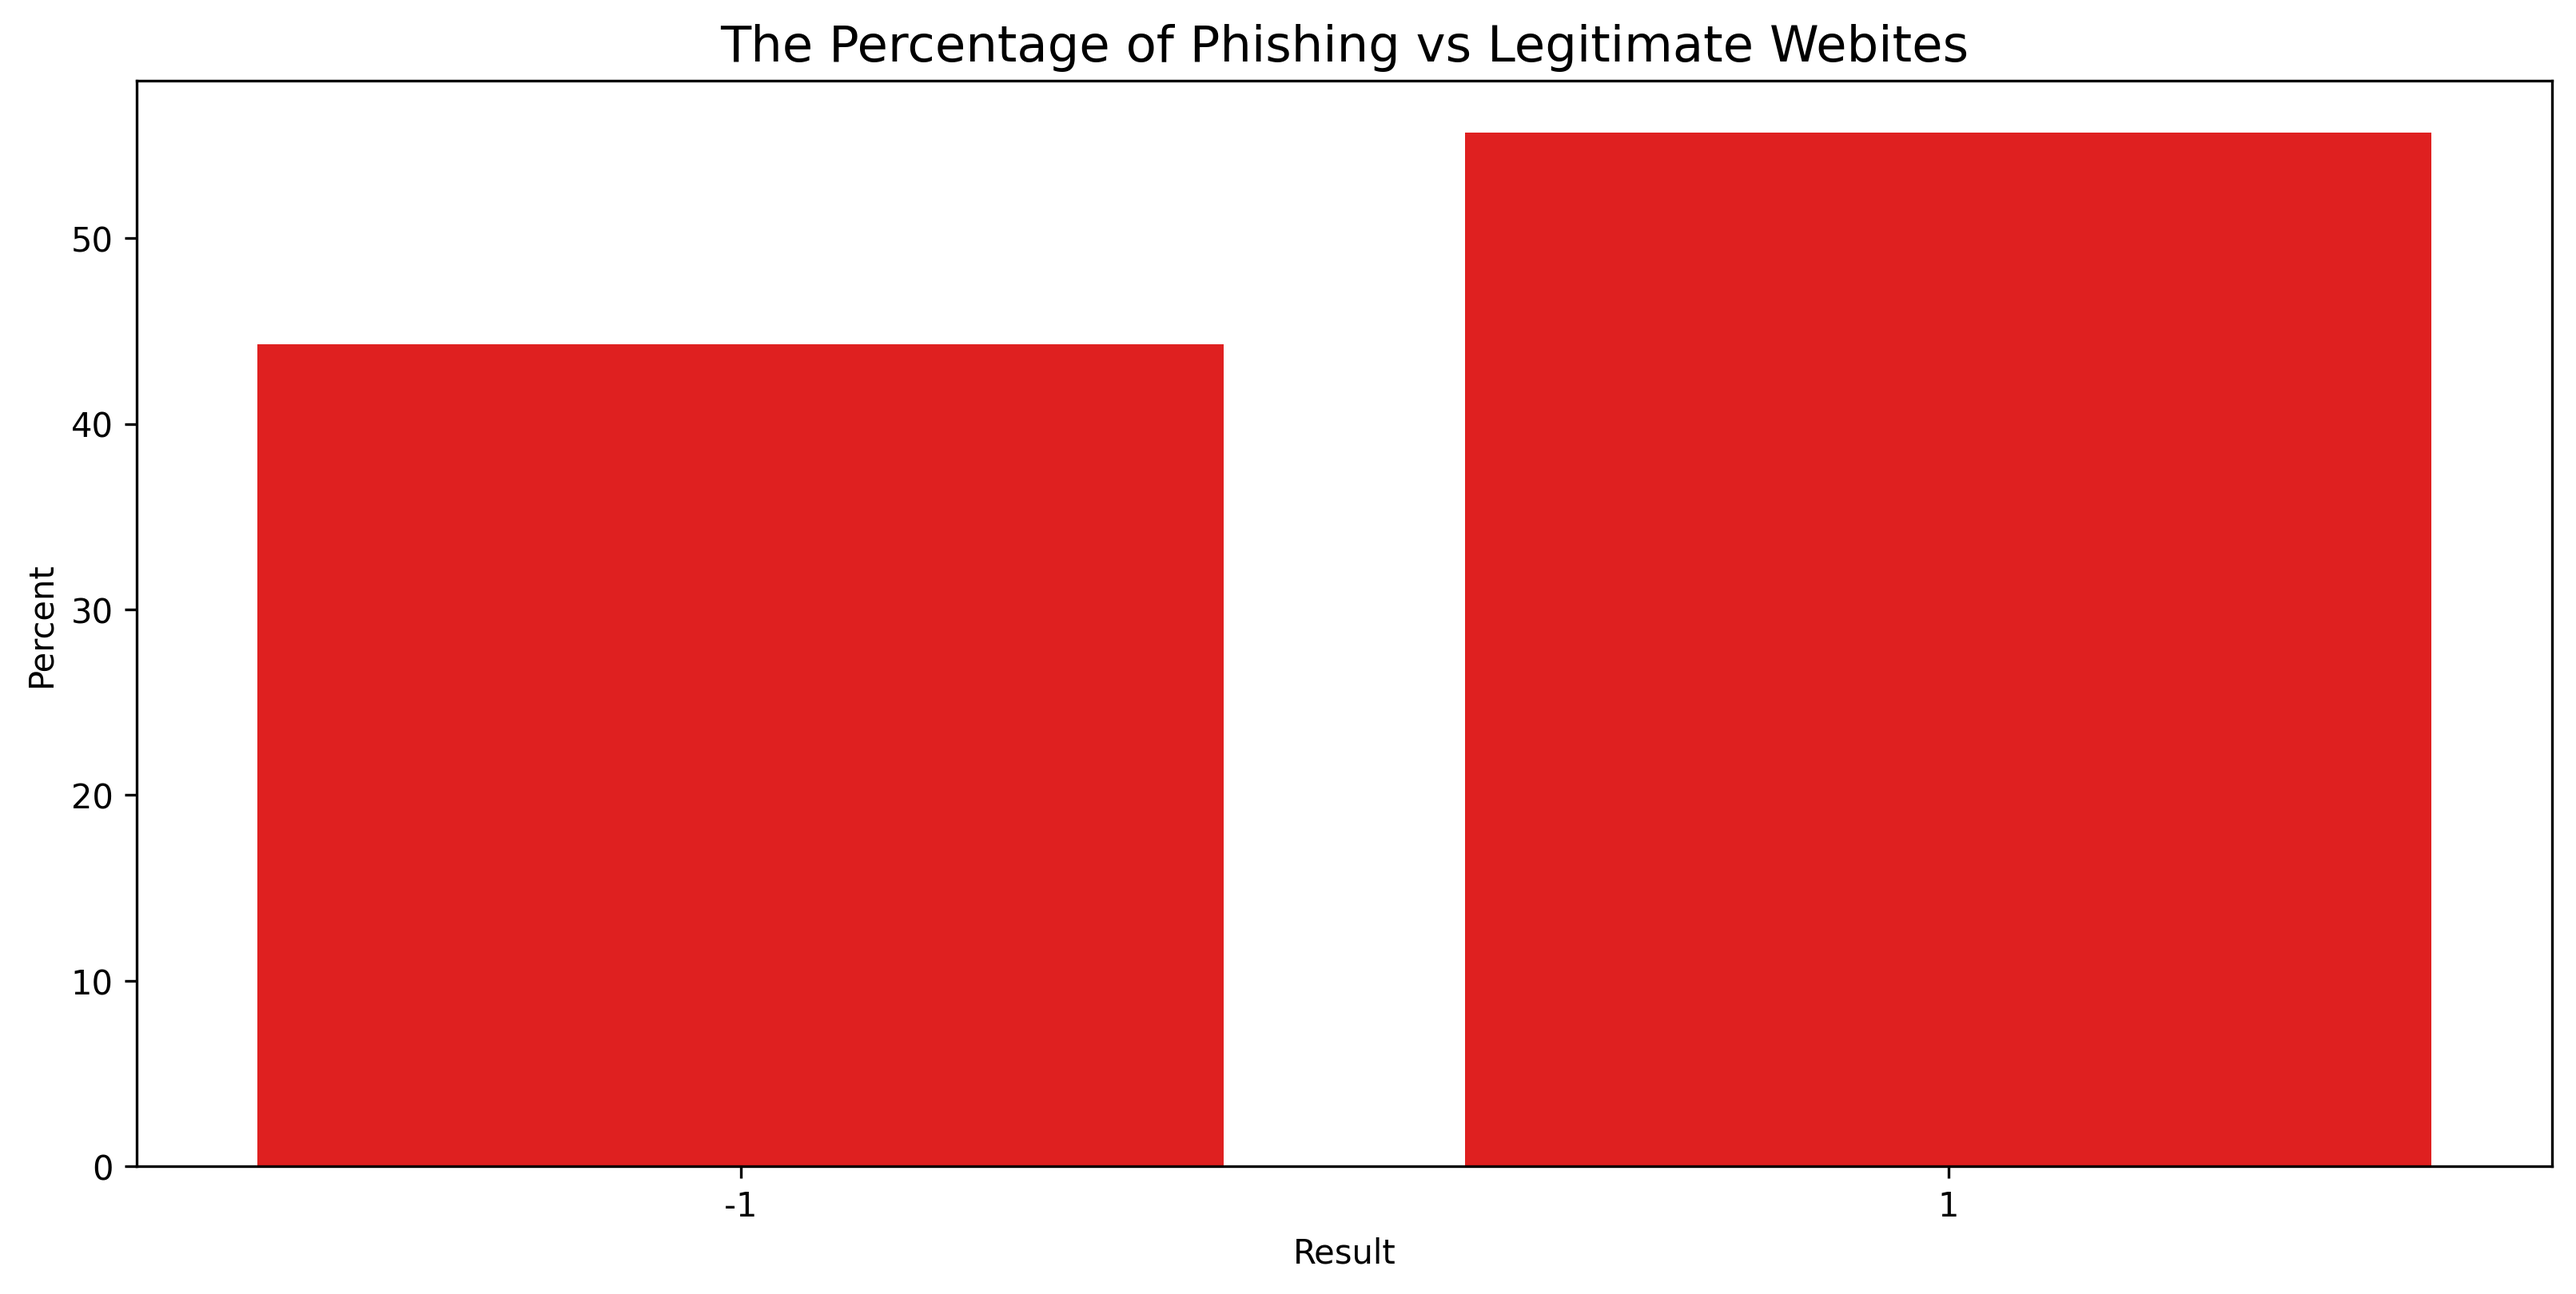
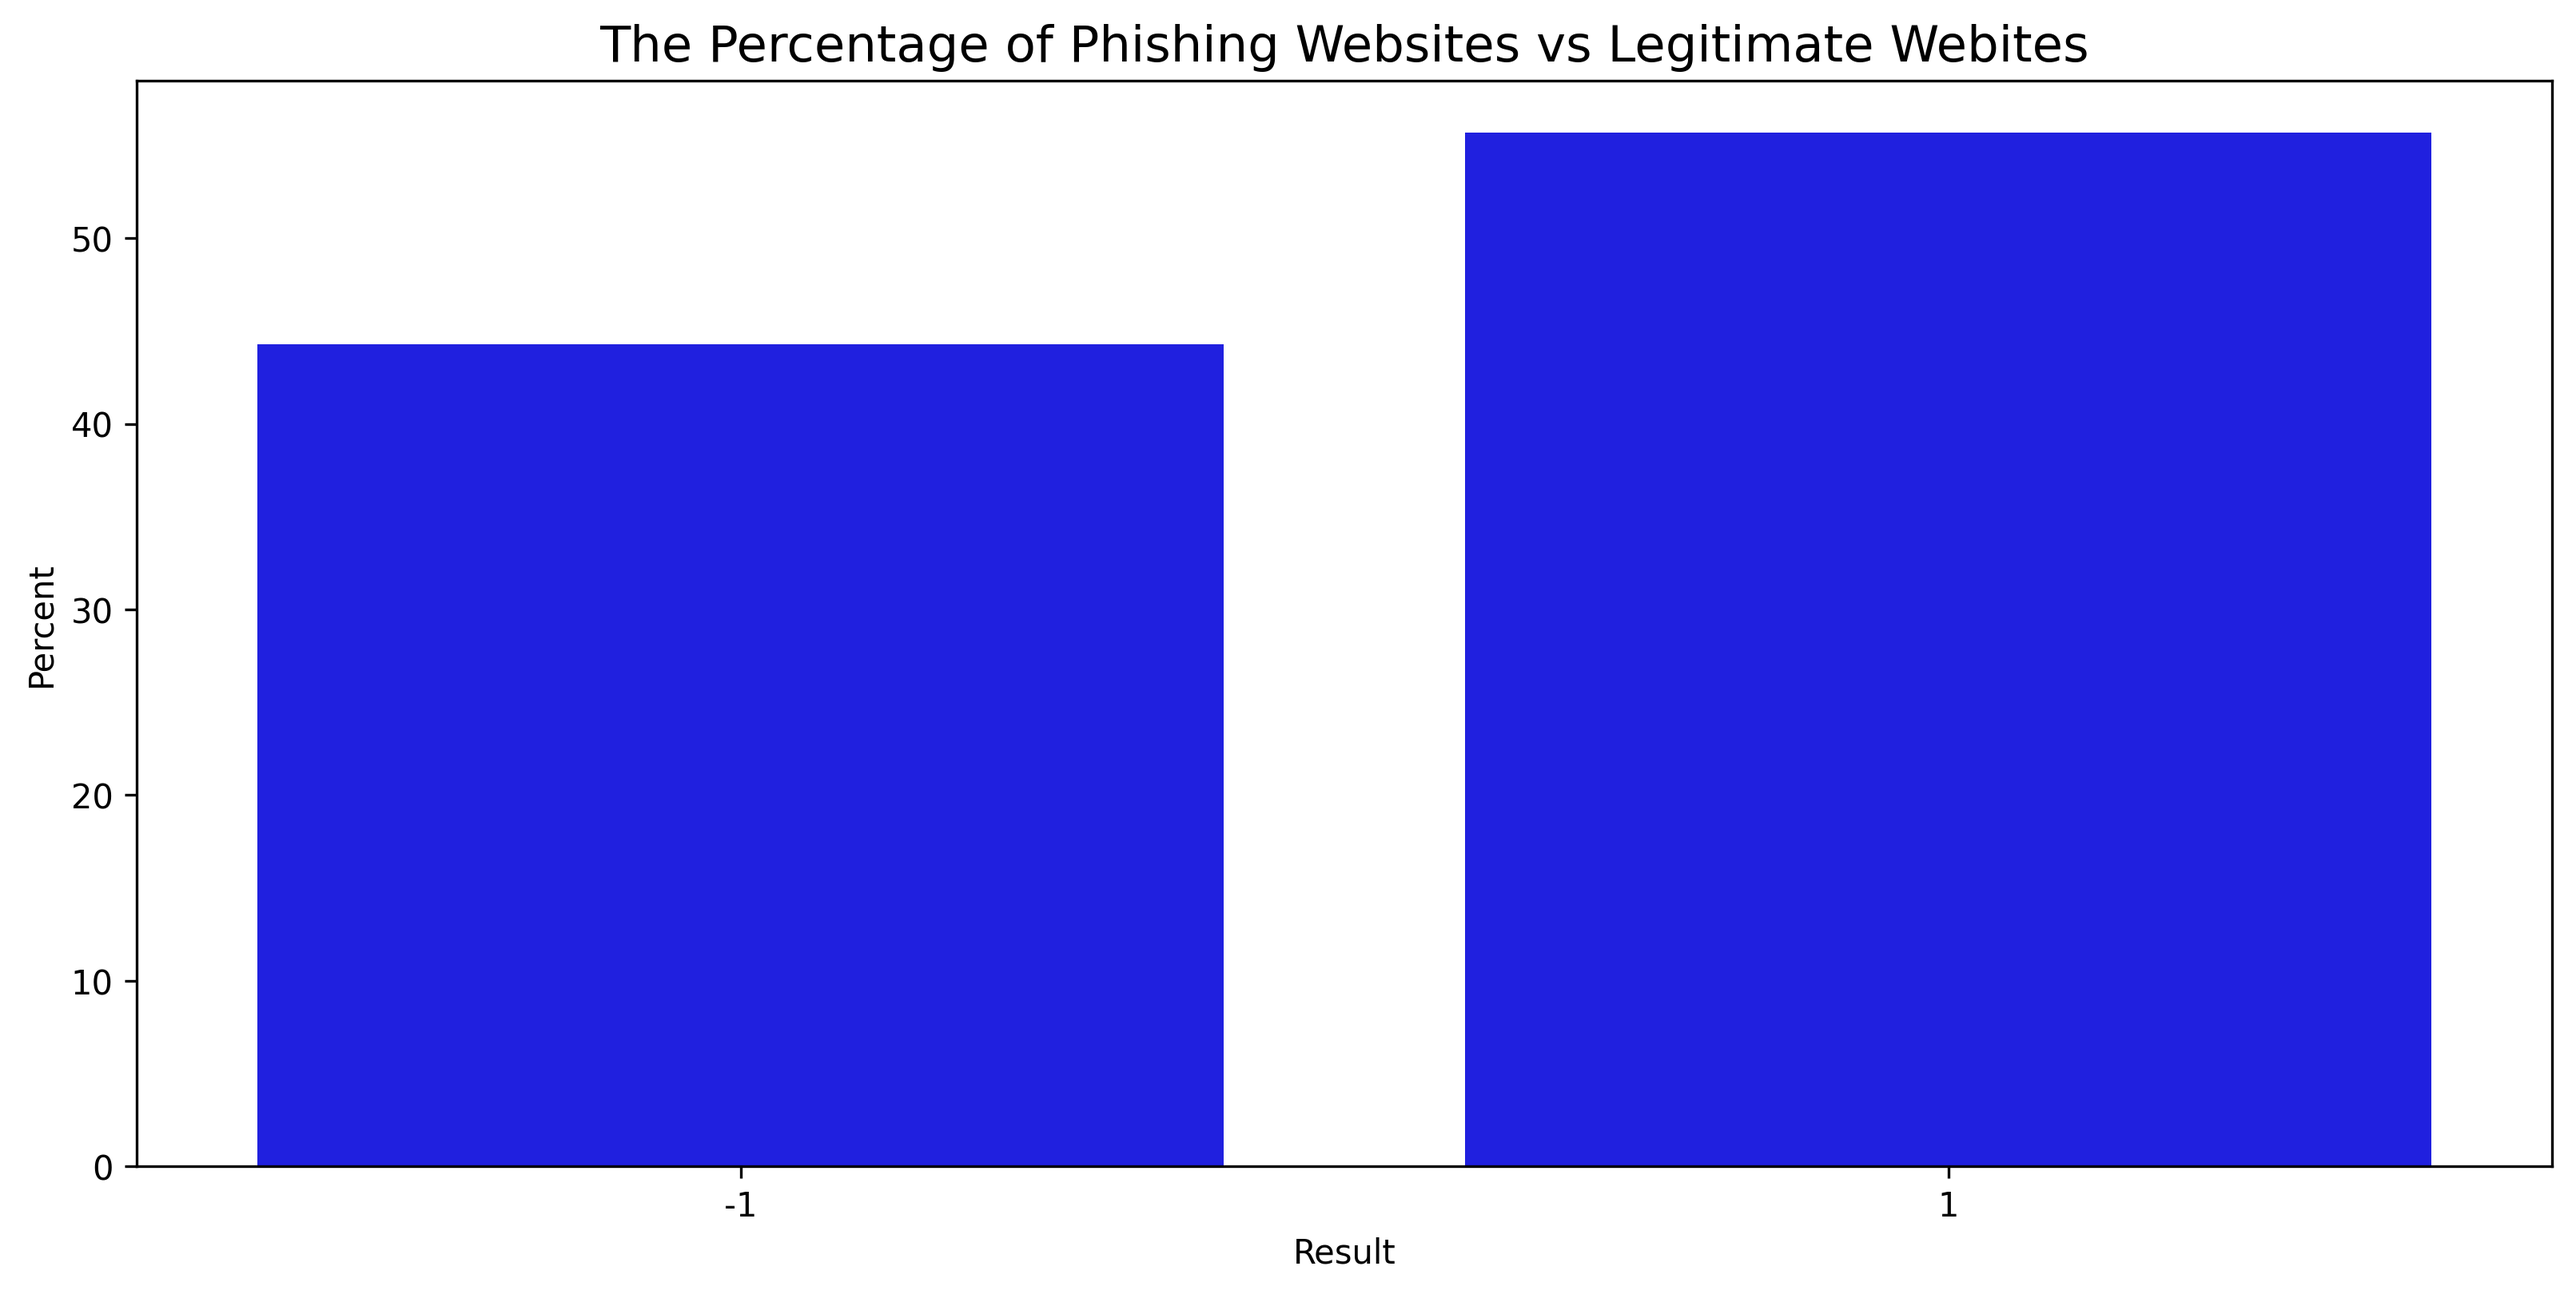
exploring dataset and working on svm

diff --git a/svm.py b/svm.py
@@ -30,30 +30,7 @@ def plot_confusion_matrix(cm, names, title='Confusion matrix', cmap=plt.cm.Blues
     plt.tight_layout()
     plt.ylabel('True label')
     plt.xlabel('Predicted label')
-
-#load the dataset 
-df = pd.read_csv("phishingDataset.csv", na_values=['NaN'])
-
-#shuffle the data
-df = df.reindex(np.random.permutation(df.index))
-
-print(df.head())
-
-#list of columns that aren't result
-cols = []
-for x in df.columns:
-    if x != 'Result':
-        cols.append(x)
-        
-#defining x and y 
-X = df[cols].values
-y = df['Result'].values
-
-
-#Split the data into training and testing
-X_train, X_test, y_train, y_test = train_test_split(    
-    X, y, test_size=0.25, random_state=42) 
-
+    
 #plootting the data as a svc decision function
 
 def plot_svc_decision_function(model, ax=None, plot_support=True):
@@ -97,35 +74,80 @@ def plot_svm(N=10, ax=None):
     ax.set_ylim(-1, 6)
     plot_svc_decision_function(model, ax)
 
+#load the dataset 
+df = (pd.read_csv("phishingDataset.csv", na_values=['NaN'])).head(400)
+
+#shuffle the data
+df = df.reindex(np.random.permutation(df.index))
+
+print(df.head())
+
+#list of columns that aren't result
+cols = []
+for x in df.columns:
+    if x != 'Result':
+        cols.append(x)
+        
+#defining x and y 
+X = df[cols].values
+y = df['Result'].values
+
+
+#Split the data into training and testing
+X_train, X_test, y_train, y_test = train_test_split(    
+    X, y, test_size=0.25, random_state=42) 
+
+
+#Plotting the first 60 and 120 data points with line of best fit
 fig, ax = plt.subplots(1, 2, figsize=(16, 6))
 fig.subplots_adjust(left=0.0625, right=0.95, wspace=0.1)
 for axi, N in zip(ax, [60, 120]):
     plot_svm(N, axi)
     axi.set_title('N = {0}'.format(N))
 
-#build multiclass svm and fit data
-multi_svm = SVC(gamma='scale', decision_function_shape='ovo')  
-multi_svm.fit(X_train,y_train)
 
-#predicting the data
-y_pred = multi_svm.predict(X_test)
+svm_model = SVC(kernel='rbf', C=100).fit(X, y)
 
-
-#put the results into a DataFrame and print side-by-side
-output = pd.DataFrame(data=np.c_[y_test,y_pred])
-print(output)
-
-#calculate accuracy score and print
+y_pred = svm_model.predict(X_test)
+#print(y_test)
+#print(y_pred)
 print('Accuracy: %.2f' % accuracy_score(y_test, y_pred))
-
-#find the confusion matrix, normalise and print
 cm = confusion_matrix(y_test, y_pred)
 np.set_printoptions(precision=2)
+print('Confusion matrix, without normalization')
+print(cm)
+#normalised confusion matrix
 cm_normalized = cm.astype('float') / cm.sum(axis=1)[:, np.newaxis]
 print('Normalized confusion matrix')
 print(cm_normalized)
-
-#confusion matrix as a figure
 plt.figure()
 plot_confusion_matrix(cm_normalized, [-1,1], title='Normalized confusion matrix')
 plt.show()
+print(svm_model.get_params())
+
+# #build multiclass svm and fit data
+# multi_svm = SVC(gamma='scale', decision_function_shape='ovo')  
+# multi_svm.fit(X_train,y_train)
+
+# #predicting the data
+# y_pred = multi_svm.predict(X_test)
+
+
+# #put the results into a DataFrame and print side-by-side
+# output = pd.DataFrame(data=np.c_[y_test,y_pred])
+# print(output)
+
+# #calculate accuracy score and print
+# print('Accuracy: %.2f' % accuracy_score(y_test, y_pred))
+
+# #find the confusion matrix, normalise and print
+# cm = confusion_matrix(y_test, y_pred)
+# np.set_printoptions(precision=2)
+# cm_normalized = cm.astype('float') / cm.sum(axis=1)[:, np.newaxis]
+# print('Normalized confusion matrix')
+# print(cm_normalized)
+
+# #confusion matrix as a figure
+# plt.figure()
+# plot_confusion_matrix(cm_normalized, [-1,1], title='Normalized confusion matrix')
+# plt.show()

diff --git a/dataset_exploration.py b/dataset_exploration.py
@@ -29,9 +29,9 @@ pd.crosstab(phishing['Result'],
 
 #Percentage of class values
 plt.figure(figsize=(13, 6))
-ax = sns.barplot(x=phishing['Result'], y=phishing['Result'], data=df, estimator=lambda x: len(x) / len(df) * 100, color = 'Red')
+ax = sns.barplot(x=phishing['Result'], y=phishing['Result'], data=df, estimator=lambda x: len(x) / len(df) * 100, color = 'Blue')
 ax.set(ylabel="Percent");
-ax.set_title('The Percentage of Phishing vs Legitimate Webites', size = 15);
+ax.set_title('The Percentage of Phishing Websites vs Legitimate Webites', size = 15);
 plt.savefig('resultpercentageplot.png', dpi=300, bbox_inches='tight');
 
 #Correlation between variables
